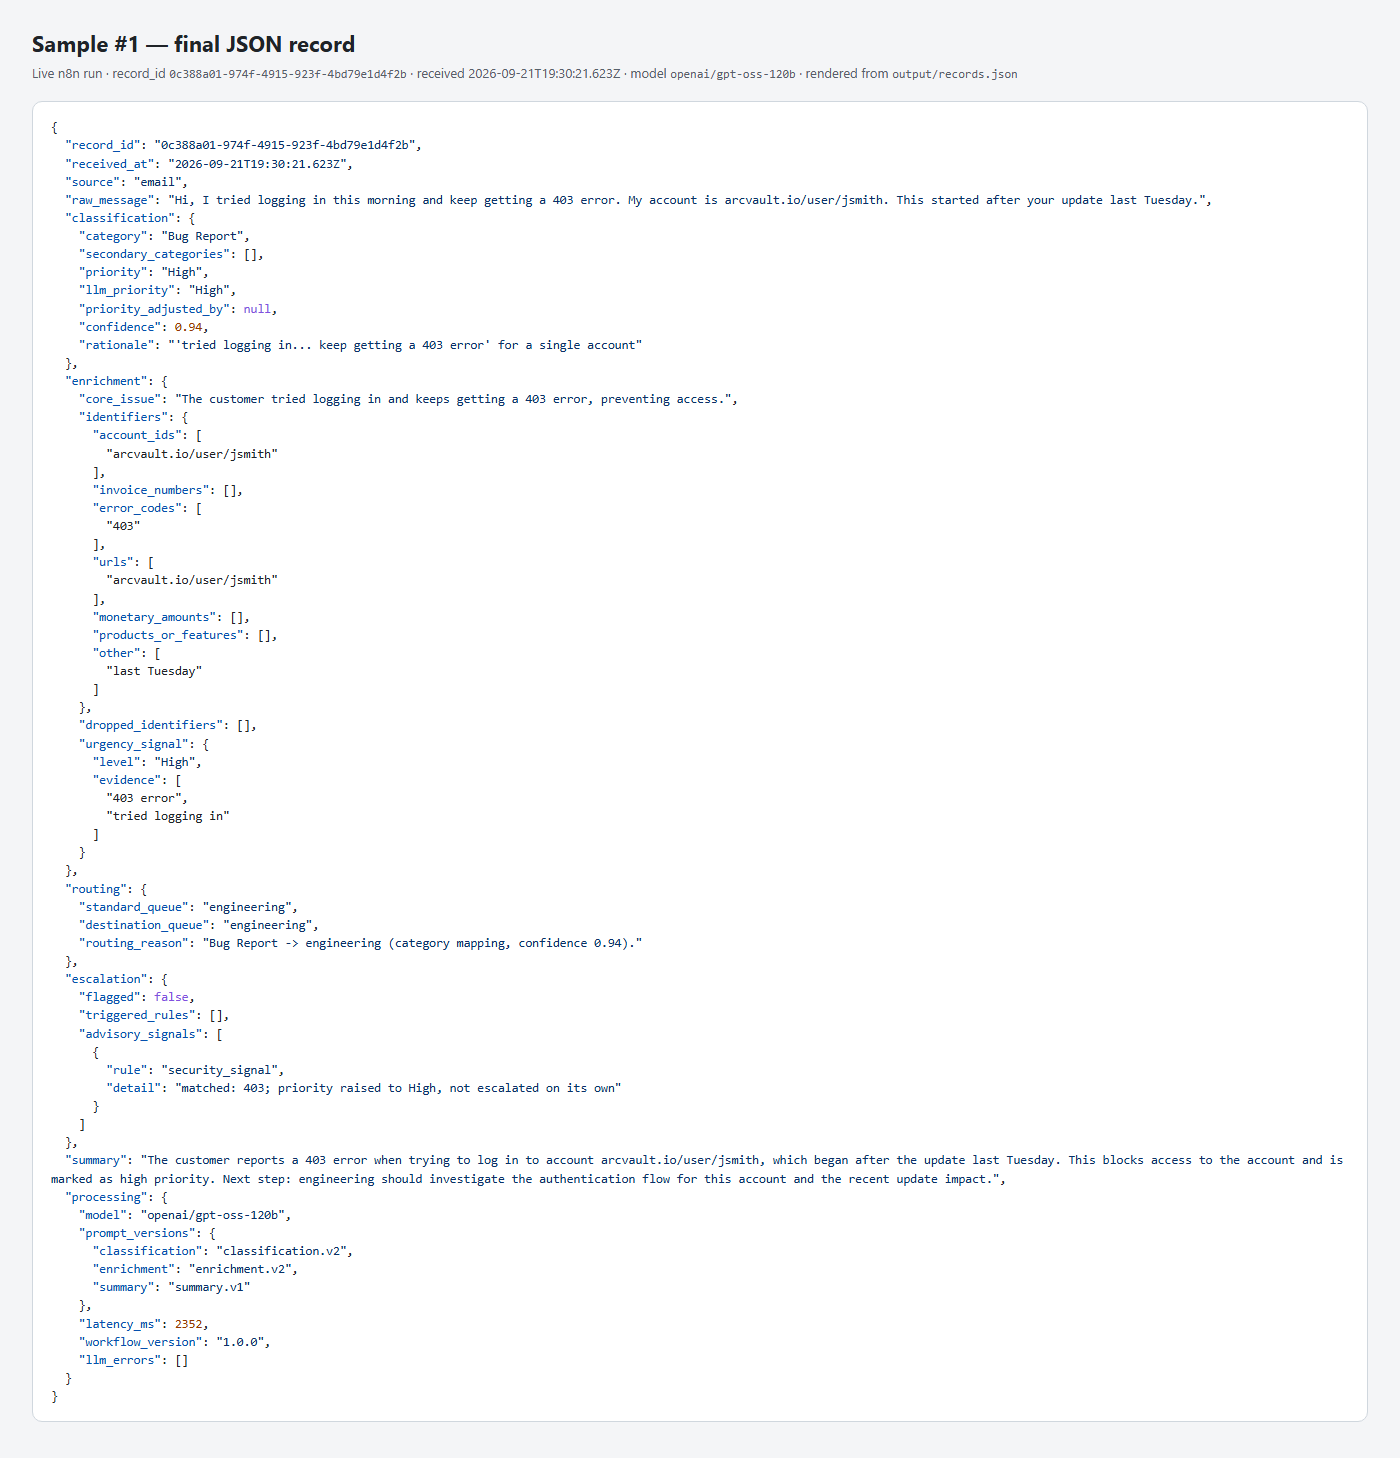
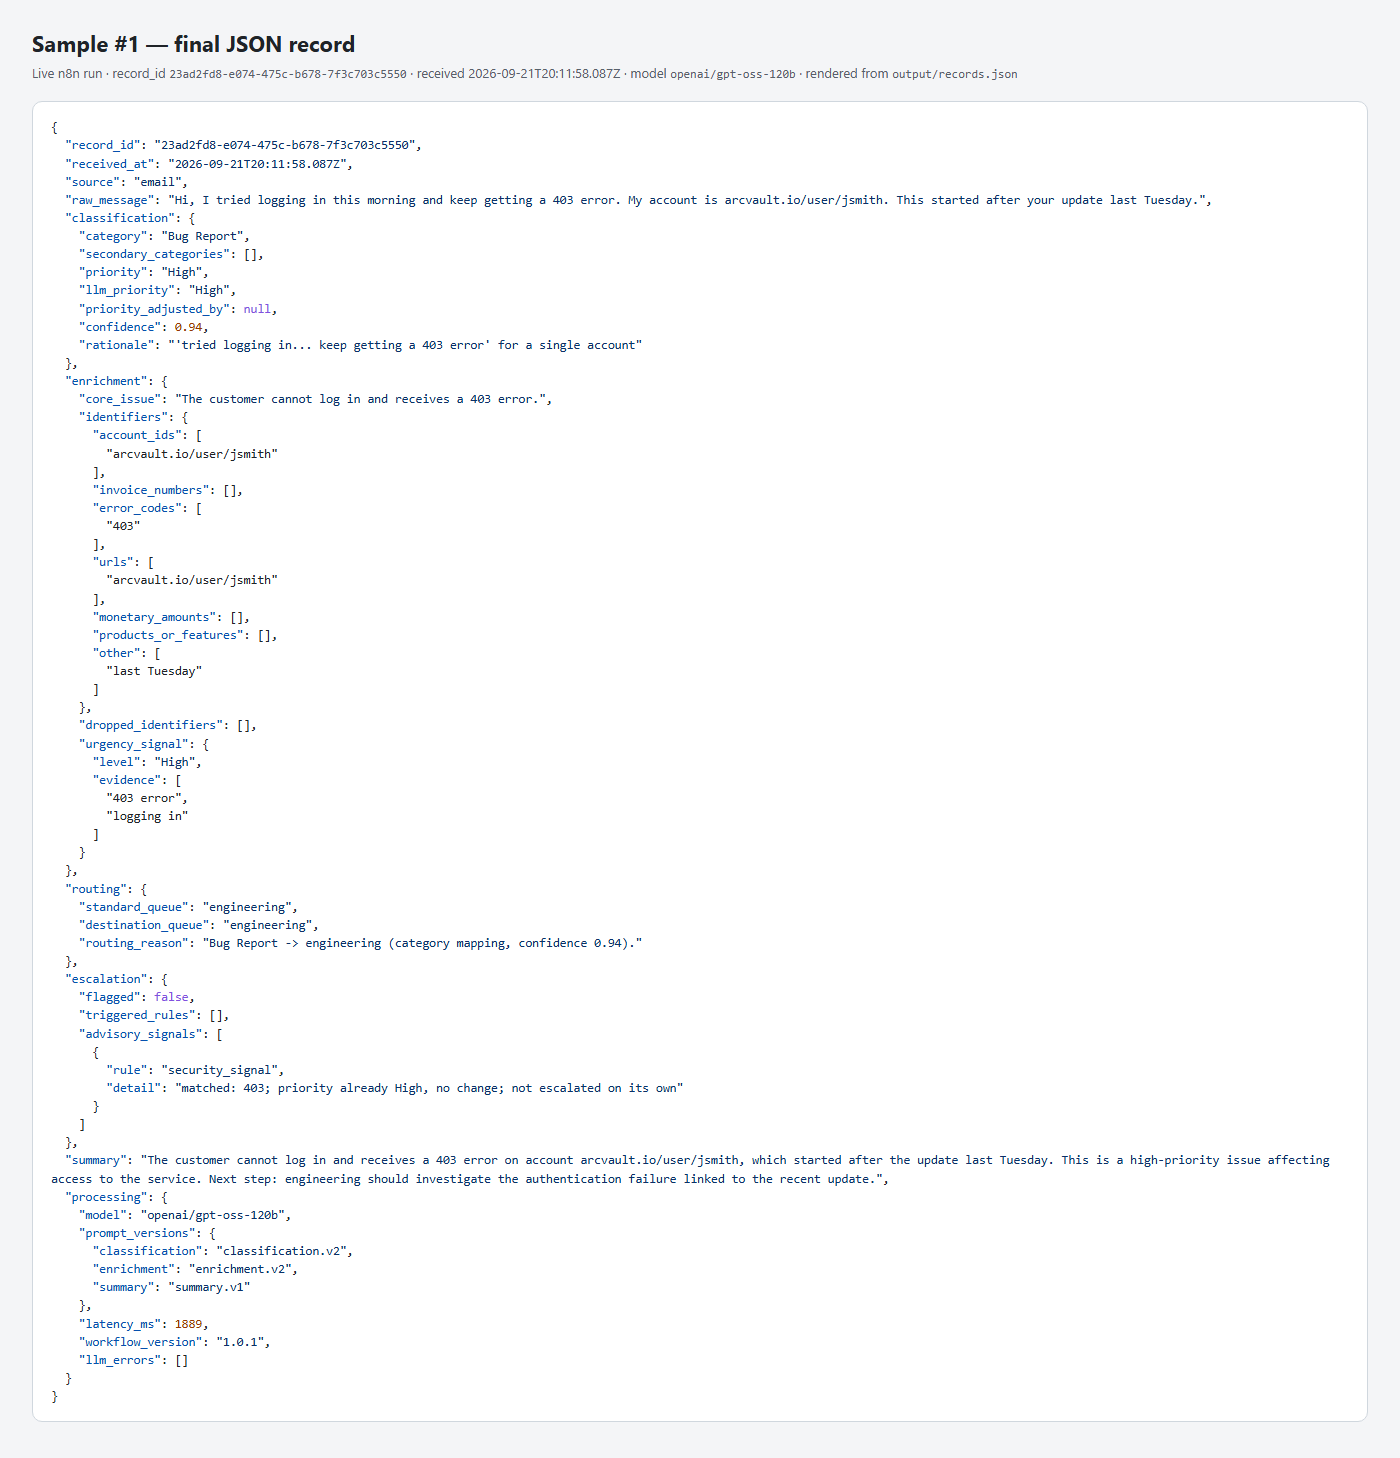
Re-run 5 samples on workflow 1.0.1; refresh records.json and screenshots

diff --git a/docs/AI_ASSISTANCE_LOG.md b/docs/AI_ASSISTANCE_LOG.md
@@ -22,4 +22,5 @@ I built this with Claude Code (Claude Opus) as a pair programmer. This log recor
 | 17 | Testing | My ad-hoc PowerShell test command put `$1,240` inside a double-quoted string, so PowerShell interpolated `$1`/`$980` and the workflow received `\,240`. | The returned `raw_message` looked wrong. | Not a pipeline bug. The real scripts send text from `tests/golden.json`, so they aren't affected. I only used the scripts after that. |
 | 18 | Instructions | I gave the user a `curl.exe -d "{\"source\":...}"` command to run by hand. That escaping works in cmd and bash, but Windows PowerShell 5.1 strips the `\"` when calling native executables, so curl got broken JSON (n8n returned 422) and treated the leftover words as hostnames. | The user pasted the error output. | Gave an `Invoke-RestMethod` version instead, and added `send_samples.py --message "..." --source ...` so there's nothing to quote by hand. The README notes the pitfall. |
 | 19 | Prompts | The v2 prompt changes (aimed at E1, E5 and S1) raised confidence on the vague message E2 "it's broken again" from 0.62 (v1) to 0.78, so it no longer escalates and goes straight to engineering. I didn't re-test E2 after v2, only the cases I had changed. | Full eval run (`output/eval_report.md`). | Recorded as a failing case. Lesson: after any prompt change, re-run the whole eval set, not just the cases the change targeted. |
+| 20 | Rules | The `security_signal` detail string always said "priority raised to High", even when the LLM had already returned High and nothing changed (sample #1). The structured field `priority_adjusted_by` was correct (`null`); only the text was wrong. The unit test only covered the case where the priority does get raised. | Reviewing the rendered screenshot of sample #1. | The detail now says "already High, no change" or "raised from X to High". Added a unit test for the already-High case. workflow_version 1.0.1; redeployed and re-ran the samples. |
 | 8 | Git | Git had no user identity configured on this machine. | `git config user.email` returned nothing. | Set a repo-local identity only. Didn't touch global config. |
